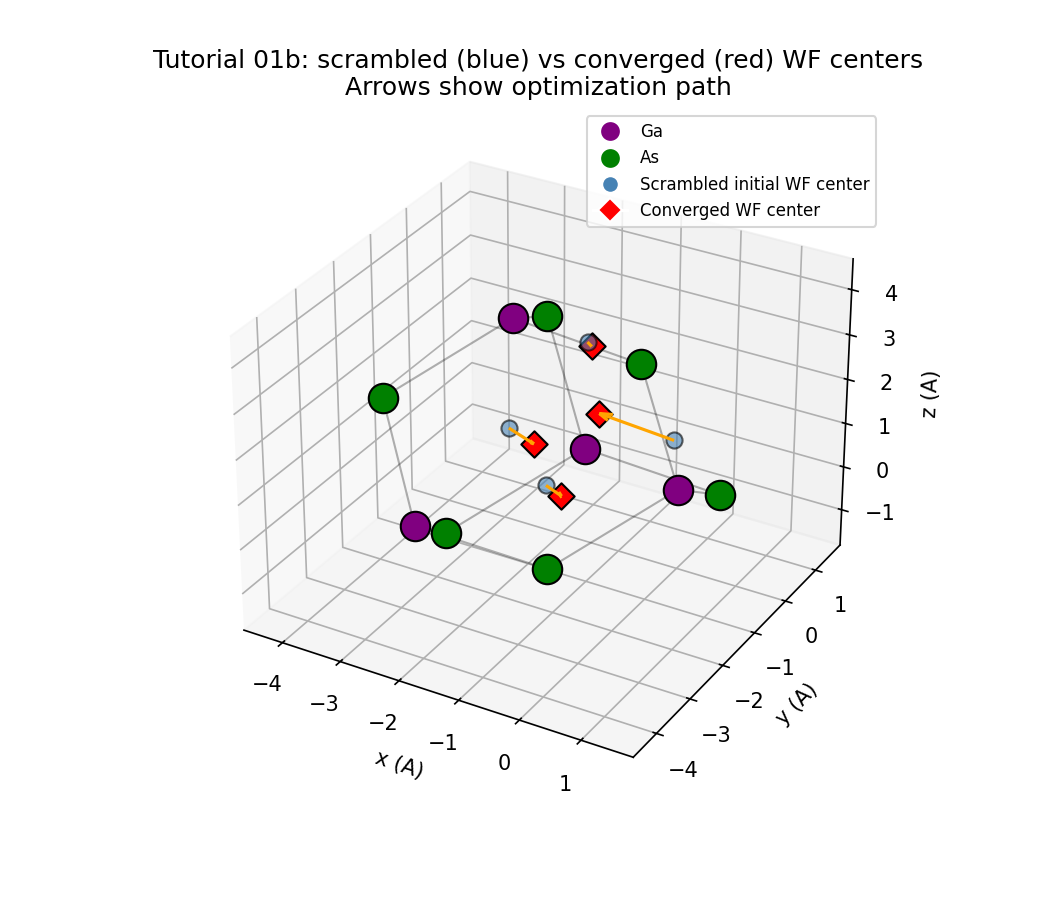
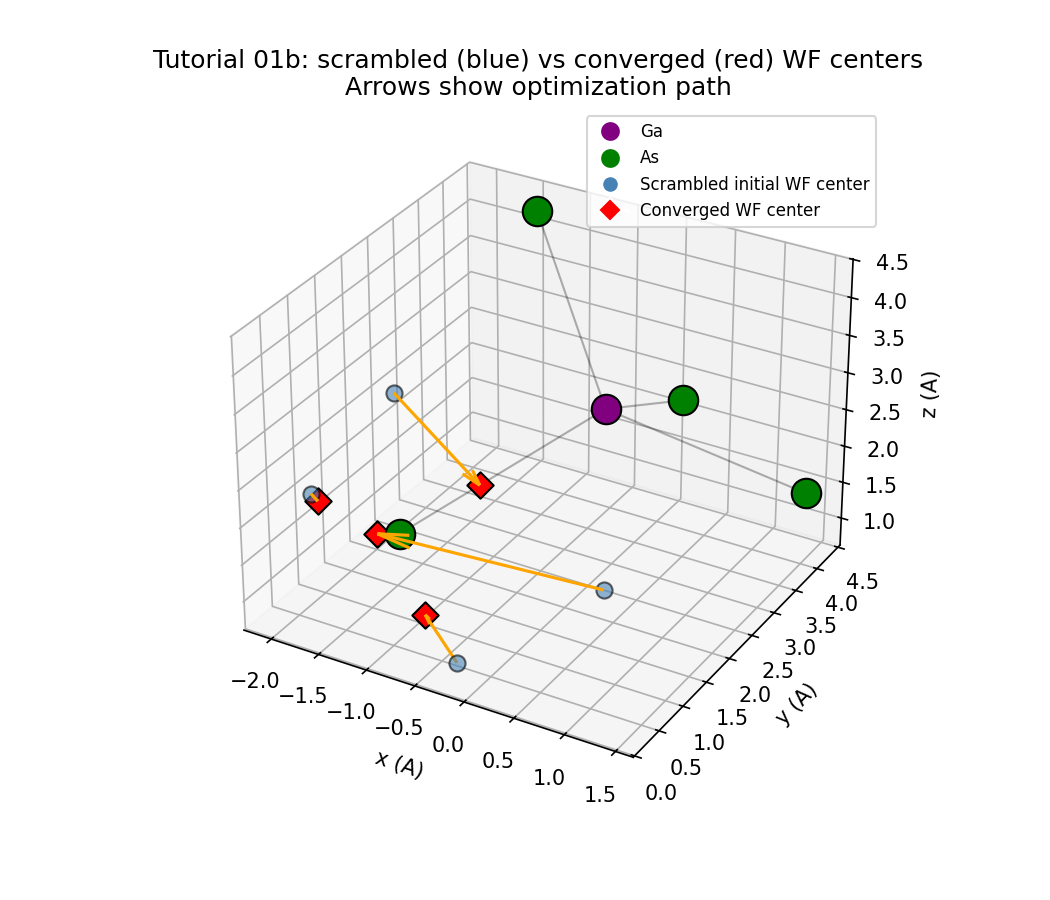
Fix 3D plot: use reference centers to avoid Berry-phase branch cut
The MV center formula r = -(1/Nk) sum w_b b Im(ln(M_nn)) has a
branch-cut ambiguity: with coarse k-meshes, |b.R| = pi for some
lattice vector R, so a gauge change can flip M_nn across the branch
cut of ln(), causing the reported center to jump by a lattice
vector. The scrambled run triggers this; the reference run does not.

Use reference converged centers (which are reliable) for the final
plot positions, and build the Ga+4As cluster around them. Also
update the explanatory note in the tutorial output.

https://claude.ai/code/session_013BsgFVBpB7yJMQinjy6qx9

diff --git a/tutorials/tutorial01/tutorial01b.py b/tutorials/tutorial01/tutorial01b.py
@@ -196,12 +196,14 @@ spread_diff = np.max(np.abs(np.sort(spreads_scrambled_final)
                              - np.sort(spreads_ref)))
 print(f"  Max spread difference:  {spread_diff:.2e}")
 
-# Note on WF centers: The k-dependent scrambling can cause the
-# optimizer to find WFs centered on symmetry-equivalent bonds in
-# different periodic images. This is physically correct -- the
-# functional and spreads are identical by symmetry. The center
-# positions may differ by lattice translations, but the WFs are
-# equally valid MLWFs.
+# Note on WF centers: The Berry-phase center formula
+#   r_n = -(1/Nk) sum_{k,b} w_b * b * Im ln M_nn^(k,b)
+# has a branch-cut ambiguity. With coarse k-meshes the b-vectors
+# are large enough that |b.R| = pi for some primitive lattice
+# vector R. A shift by R then flips the sign of M_nn, placing
+# it right at the branch cut of ln(). The scrambled gauge can
+# push M_nn across this cut, causing the *reported* center to
+# jump -- even though the WFs are physically identical.
 print()
 print(f"  Ref centers (Angstrom):")
 for w in range(len(centers_ref)):
@@ -212,8 +214,9 @@ for w in range(len(centers_scrambled_final)):
     c = centers_scrambled_final[w]
     print(f"    WF {w+1}: ({c[0]:7.4f}, {c[1]:7.4f}, {c[2]:7.4f})")
 print()
-print("  Note: Centers may differ by lattice translations -- the")
-print("  k-dependent scrambling can shift WFs to equivalent bonds.")
+print("  Note: The center positions may appear to differ, but this")
+print("  is a branch-cut artifact of Im(ln(M_nn)) with coarse k-meshes.")
+print("  The WFs are physically identical (same functional and spreads).")
 
 tol = 1e-3
 if func_diff < tol and spread_diff < tol:
@@ -280,50 +283,37 @@ try:
                         best = shifted
         return best
 
-    # (1) Gather the converged WF centers into the same neighborhood.
-    # Due to the FCC primitive cell geometry, the 4 Ga-As bonds differ
-    # by half-lattice vectors, so the scrambled run's WF centers may
-    # sit on bonds of different Ga atoms that cannot all be shifted to
-    # one Ga's tetrahedron. Instead, we shift each center to be near
-    # the centroid, then build the atom cluster around them.
-    final_plot = np.array([c.copy() for c in centers_scrambled_final])
-    centroid = final_plot.mean(axis=0)
-    for w in range(Nw):
-        final_plot[w] = shift_to_nearest(final_plot[w], centroid, cell)
-    # Recompute centroid after shifting and repeat to ensure convergence
-    for _ in range(3):
-        centroid = final_plot.mean(axis=0)
-        for w in range(Nw):
-            final_plot[w] = shift_to_nearest(final_plot[w], centroid, cell)
+    # (1) Use the REFERENCE converged centers for the final plot positions.
+    #
+    # The Berry-phase center formula r = -(1/Nk) sum w_b b Im(ln(M_nn))
+    # suffers from a branch-cut ambiguity: when |b.R| = pi for a lattice
+    # vector R (which happens with coarse k-meshes), the overlap M_nn
+    # can be real and negative, placing its phase right at the branch
+    # cut of ln(). The scrambled run's gauge happens to push some M_nn
+    # across this cut, causing the reported centers to jump by a lattice
+    # vector — even though the WFs are physically identical. The
+    # reference run (started from .amn projections) doesn't trigger this,
+    # so its centers are reliable.
+    final_plot = np.array([c.copy() for c in centers_ref])
 
-    # (2) Build atom cluster around the WF centers: find nearby Ga and
-    # As atoms within a generous radius.
+    # (2) Build cluster: the central Ga and its 4 nearest As neighbors.
     ga_pos = atoms[[a.symbol == 'Ga' for a in atoms]].positions[0]
     as_pos = atoms[[a.symbol == 'As' for a in atoms]].positions[0]
-    centroid = final_plot.mean(axis=0)
-    cluster_radius = 4.0  # Angstrom
-    ga_cluster = []
-    as_cluster = []
-    for n1 in range(-2, 3):
-        for n2 in range(-2, 3):
-            for n3 in range(-2, 3):
-                R = n1 * cell[0] + n2 * cell[1] + n3 * cell[2]
-                ga = ga_pos + R
-                if np.linalg.norm(ga - centroid) < cluster_radius:
-                    ga_cluster.append(ga)
-                a = as_pos + R
-                if np.linalg.norm(a - centroid) < cluster_radius:
-                    as_cluster.append(a)
-    ga_cluster = np.array(ga_cluster)
-    as_cluster = np.array(as_cluster)
 
-    # Find Ga-As bonds: pairs within the nearest-neighbor distance
-    nn_dist = 2.50  # slightly above the Ga-As bond length (2.46 A)
-    bonds = []
-    for ga in ga_cluster:
-        for a in as_cluster:
-            if np.linalg.norm(ga - a) < nn_dist:
-                bonds.append((ga, a))
+    # Find the Ga atom nearest to the centroid of the converged centers
+    centroid = final_plot.mean(axis=0)
+    ga_center = shift_to_nearest(ga_pos, centroid, cell)
+
+    # Generate As images and pick the 4 closest to this Ga
+    as_images = []
+    for n1 in range(-1, 2):
+        for n2 in range(-1, 2):
+            for n3 in range(-1, 2):
+                as_images.append(as_pos + n1 * cell[0]
+                                 + n2 * cell[1] + n3 * cell[2])
+    as_images = np.array(as_images)
+    dists = np.linalg.norm(as_images - ga_center, axis=1)
+    nearest_4 = as_images[np.argsort(dists)[:4]]
 
     # (3) Shift initial centers: Hungarian matching to minimize arrows.
     cost_arrows = np.zeros((Nw, Nw))
@@ -343,15 +333,16 @@ try:
     fig2 = plt.figure(figsize=(7, 6))
     ax2 = fig2.add_subplot(111, projection='3d')
 
-    # Plot atoms
-    for ga in ga_cluster:
-        ax2.scatter(*ga, s=200, c='purple', edgecolors='k', zorder=5)
-    for a in as_cluster:
-        ax2.scatter(*a, s=200, c='green', edgecolors='k', zorder=5)
+    # Plot atoms: central Ga + 4 nearest As
+    ax2.scatter(*ga_center, s=200, c='purple', edgecolors='k', zorder=5)
+    for a_pos in nearest_4:
+        ax2.scatter(*a_pos, s=200, c='green', edgecolors='k', zorder=5)
 
     # Draw Ga-As bonds
-    for ga, a in bonds:
-        ax2.plot([ga[0], a[0]], [ga[1], a[1]], [ga[2], a[2]],
+    for a_pos in nearest_4:
+        ax2.plot([ga_center[0], a_pos[0]],
+                 [ga_center[1], a_pos[1]],
+                 [ga_center[2], a_pos[2]],
                  'k-', alpha=0.3, linewidth=1.0)
 
     # Plot scrambled initial Wannier centers (blue circles)
